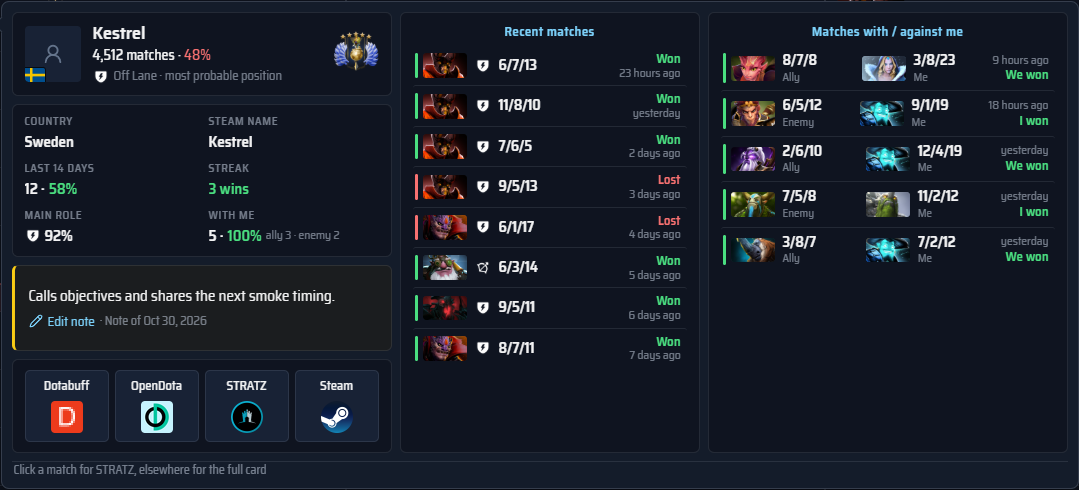
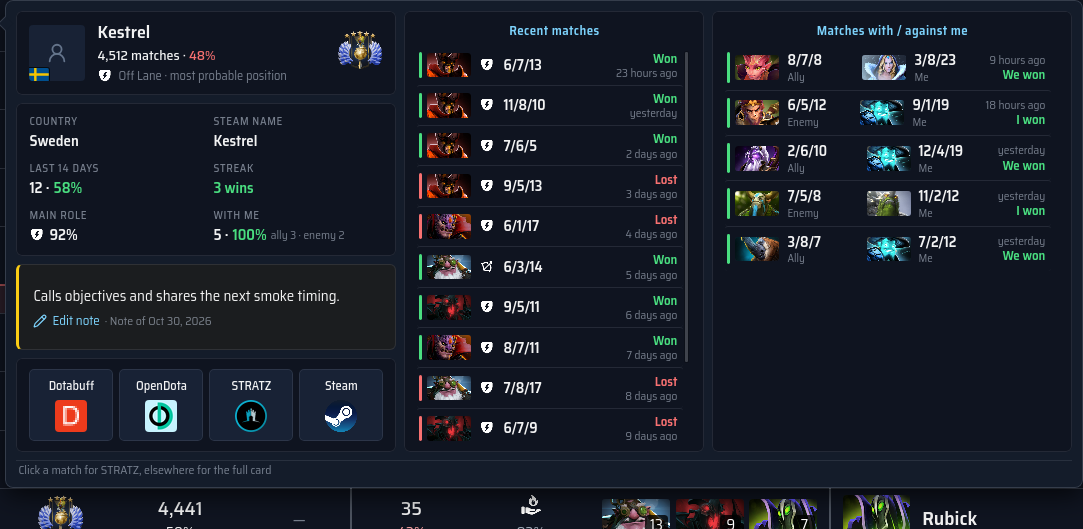
chore(release): prepare 0.7.1 with party marks and match-table fixes
Synchronize npm, Cargo, Tauri and lockfile versions at 0.7.1, date the
changelog and keep an empty Unreleased section. README and the
installation example name 0.7.1. The documentation fixture gains invented
parties (one recorded, one likely across a row) and the capture waits for
their brackets; the match screen and hover card images are regenerated.

Closes #52

diff --git a/README.md b/README.md
@@ -19,14 +19,14 @@
   <a href="docs/README.md"><b>Documentation</b></a>
 </p>
 
-> **Early prototype, 0.7.0.** Unsigned prereleases for Windows and Linux are on the
+> **Early prototype, 0.7.1.** Unsigned prereleases for Windows and Linux are on the
 > [releases page](https://github.com/PavluntiyJ/ancient-lens/releases); you can also
 > [build from source](docs/guide/install.md). Not affiliated with Valve.
 
 ![Match screen with ten players, hero matchups, and suggested picks](docs/images/match-screen.png)
 
 - **Match analysis:** all ten players with rank, win rate, recent games, main positions and
-  their most played heroes, side by side.
+  their most played heroes, side by side, with parties marked.
 - **Draft recommendations:** hero matchups, lane summary, picks for either side, counter and
   meta picks, updated as heroes are picked and banned (needs your STRATZ token).
 - **Profile and MMR:** your rank with confidence, an MMR chart, position breakdown and a
@@ -34,9 +34,9 @@
 - **Player cards and notes:** hover a player for recent matches, earlier games with or
   against you, an editable note, and links to Dotabuff, OpenDota, STRATZ and Steam.
 
-In 0.7.0, match status moves into the title bar, **With me** shows earlier meetings and your
-win rate, and note chimes have a volume control. The app also links to new releases when
-available. See the [changelog](CHANGELOG.md#070--october-30-2026).
+In 0.7.1, the match table marks players who queued together, from their public match history,
+and hover cards list every match of the period. See the
+[changelog](CHANGELOG.md#071--october-30-2026).
 
 Screenshots use invented players. A tour of every panel and shortcut:
 [the match screen and profile](docs/guide/match-and-profile.md).

diff --git a/CHANGELOG.md b/CHANGELOG.md
@@ -4,6 +4,12 @@ User-visible changes. Dates are when the change landed; 0.5.0 is the first binar
 
 ## Unreleased
 
+## 0.7.1 — October 30, 2026
+
+A small release: the match table marks parties, and player cards and the table fit better.
+Existing settings, notes and rating history are kept. Party marks need the statistics service
+from this release; an older service shows none.
+
 ### Added
 
 - The match table marks players who queued together with a bracket beside their rows, from

diff --git a/docs/guide/install.md b/docs/guide/install.md
@@ -56,7 +56,7 @@ On Windows, in PowerShell, print the hash and compare it with the line for that
 file in `SHA256SUMS.txt`:
 
 ```powershell
-Get-FileHash .\Ancient-Lens-0.7.0-x64-setup.exe -Algorithm SHA256
+Get-FileHash .\Ancient-Lens-0.7.1-x64-setup.exe -Algorithm SHA256
 ```
 
 `Get-FileHash` prints capital letters; upper and lower case do not matter. Do
